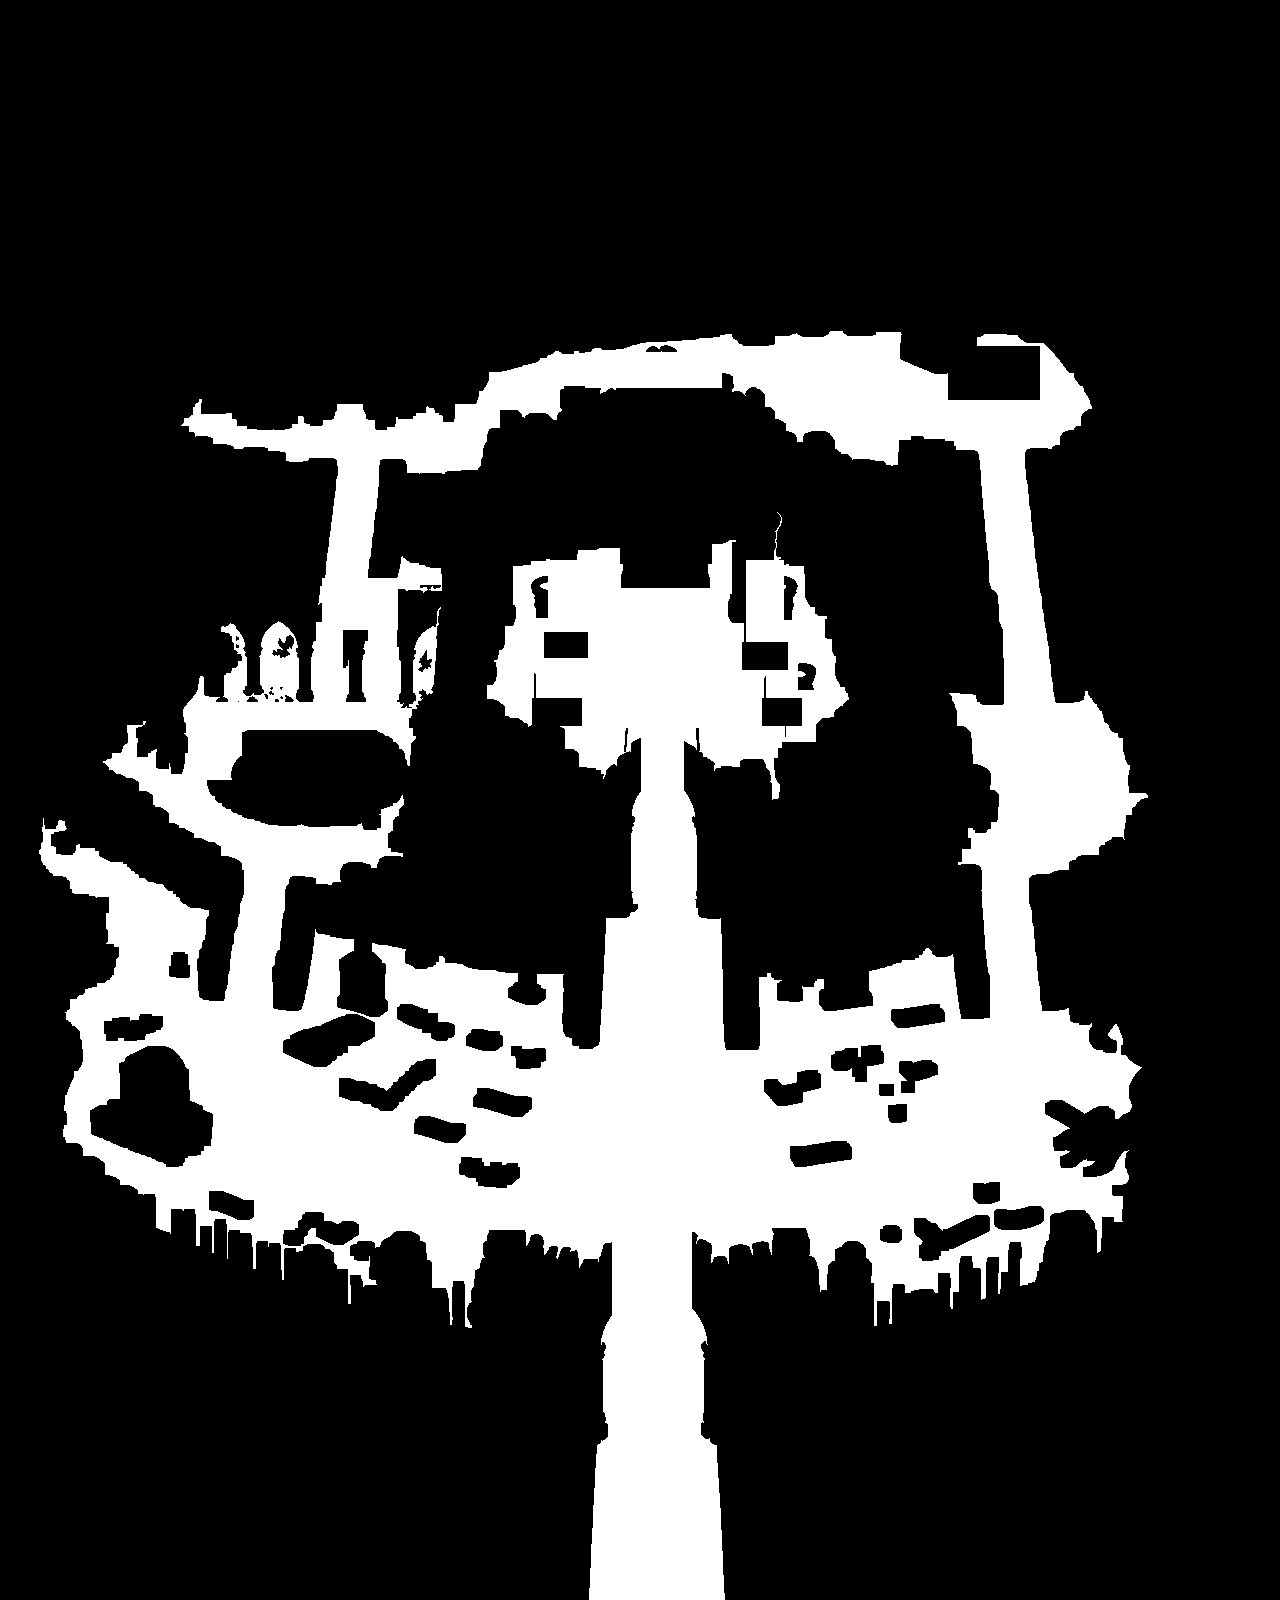
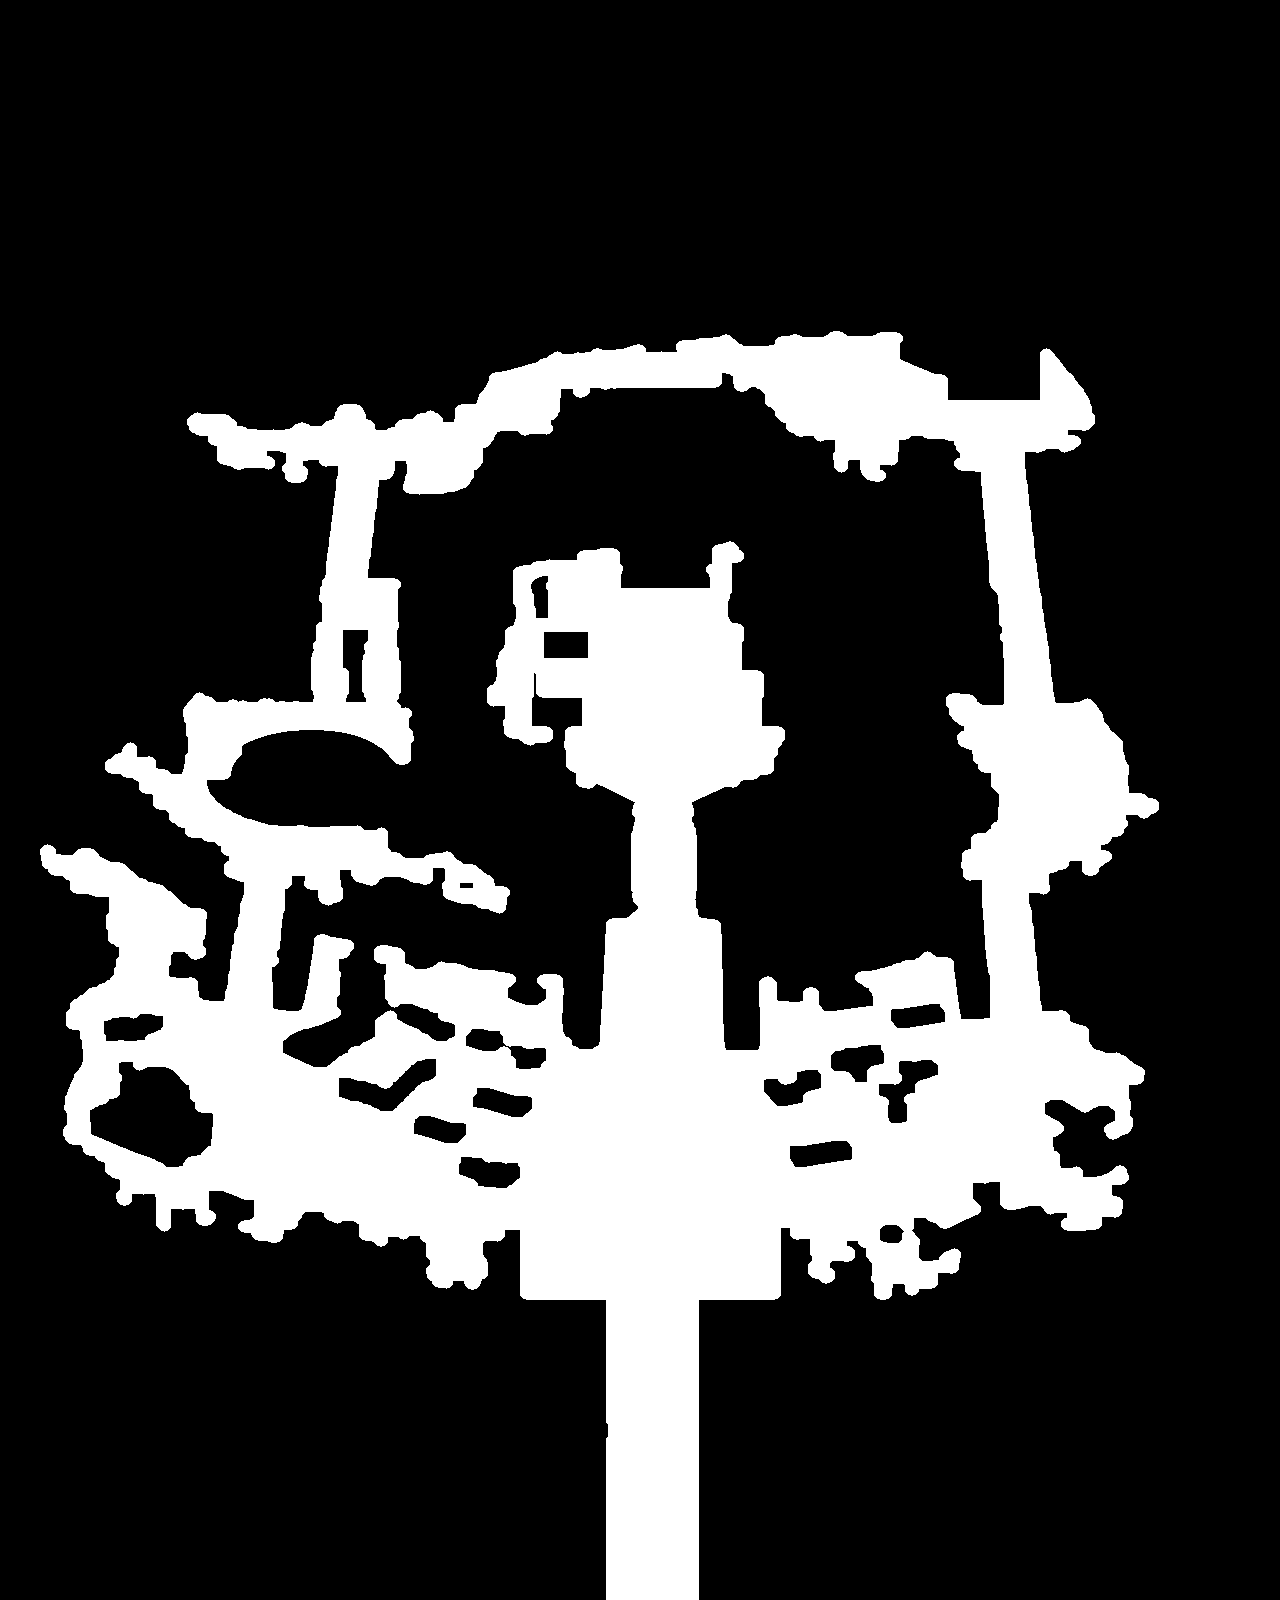
Twilight demo: walk behind walls, gate and door tops; faint silhouette when hidden; corner assist
Claude-Session: https://claude.ai/code/session_014gqNrMDU7toFrfwQ4Jw66a

diff --git a/chronicle2/twilight/site/game.js b/chronicle2/twilight/site/game.js
@@ -530,6 +530,15 @@ function update(dt) {
         const fa = free(hero.x + ax, hero.y + ay), fb = free(hero.x + bx, hero.y + by);
         if (fa !== fb) { if (fa) { hero.x += ax; hero.y += ay; } else { hero.x += bx; hero.y += by; } moved = true; break; }
       }
+      if (!moved) {                                           // corner assist: an opening a few dots to one side pulls the hero in
+        const px = -uy, py = ux;
+        for (const k of [4, 8, 12, 16, 20]) {
+          const fa = free(hero.x + px * k + ux * 3, hero.y + py * k + uy * 3) && free(hero.x + px * st, hero.y + py * st);
+          const fb = free(hero.x - px * k + ux * 3, hero.y - py * k + uy * 3) && free(hero.x - px * st, hero.y - py * st);
+          if (fa !== fb) { const s = fa ? 1 : -1; hero.x += px * st * s; hero.y += py * st * s; moved = true; break; }
+          if (fa && fb) break;
+        }
+      }
       if (!moved) break;
     }
     const mvx = hero.x - ox, mvy = hero.y - oy;
@@ -653,6 +662,7 @@ function hides(x, y, feetY) {
 }
 // One sprite frame with its contact shadow. With a height map, every pixel that lies behind taller scenery is removed,
 // so the hero passes behind columns, walls, arches and trees with no hand-made cut-outs.
+const hidIdx = new Uint32Array(96 * 128 * 2);
 function drawActor(img, sxp, syp, fw, fh, x, y, foot, sh, shR, ox, oy) {
   const dx = x - foot[0], dy = y - foot[1];
   if (!hData) {
@@ -674,6 +684,7 @@ function drawActor(img, sxp, syp, fw, fh, x, y, foot, sh, shR, ox, oy) {
   shadow(scx, foot[0], foot[1], sh, shR);
   scx.drawImage(img, sxp, syp, fw, fh, 0, 0, fw, fh);
   const im = scx.getImageData(0, 0, fw, fh), d = im.data, lim = y + M.heightBias;
+  let nHid = 0, nVis = 0;
   for (let j = 0; j < fh; j++) {
     const my = dy + j; if (my < 0) continue;
     const hj = Math.floor(my / hK); if (hj >= hH) break;
@@ -682,9 +693,13 @@ function drawActor(img, sxp, syp, fw, fh, x, y, foot, sh, shR, ox, oy) {
       const mxp = dx + i; if (mxp < 0) continue;
       const hi = Math.floor(mxp / hK); if (hi >= hW) break;
       const h = hData[hj * hW + hi];
-      if (h > 2 && my + h * hK > lim) d[o] = 0;
+      if (h > 2 && my + h * hK > lim) { if (d[o] === 255) { if (nHid < hidIdx.length) hidIdx[nHid++] = o; } else d[o] = 0; }
+      else if (d[o] === 255) nVis++;
     }
   }
+  // mostly hidden behind scenery: the hidden part stays as a faint pale shape, so the player never loses the hero
+  const frac = nHid / Math.max(1, nHid + nVis), sa = Math.round(255 * .36 * clamp((frac - .3) / .3, 0, 1));
+  for (let q = 0; q < nHid; q++) { const o = hidIdx[q]; if (sa) { d[o - 3] = 196; d[o - 2] = 204; d[o - 1] = 255; d[o] = sa; } else d[o] = 0; }
   scx.putImageData(im, 0, 0);
   wx.drawImage(scr, 0, 0, fw, fh, dx - ox, dy - oy, fw, fh);
 }

diff --git a/chronicle2/twilight/build/build2.py b/chronicle2/twilight/build/build2.py
@@ -78,6 +78,28 @@ for i in range(1, n):
     sub[m] = np.maximum(sub[m], bb[m])
     nprops += 1
 print('props with walk-behind:', nprops)
+# everything else that stands up (walls, parapets, ruins, posts): the hero can tuck in behind its top edge, legs hidden.
+# In each column, a vertical run of standing pixels with ground just above it gives up its top TUCK px (never its foot).
+TUCK = 20
+propm = foot | behind
+big = raised2 & ~propm
+okabove = ~cv2.dilate(sky.astype(np.uint8), np.ones((9, 9), np.uint8)).astype(bool) & ~raised2
+tuck = np.zeros((H, W), bool)
+for x in range(W):
+    col = big[:, x]
+    if not col.any(): continue
+    d_ = np.diff(np.concatenate([[0], col.view(np.int8), [0]]))
+    tops = np.where(d_ == 1)[0]; bots = np.where(d_ == -1)[0] - 1
+    for t, b in zip(tops, bots):
+        n_ = b - t + 1
+        base[t:b + 1, x] = np.maximum(base[t:b + 1, x], b)
+        if n_ < 14 or t < 2 or not okabove[t - 1, x]: continue
+        ft = int(np.clip(round(n_ * 0.3), 6, 14))
+        e = min(t + TUCK, b - ft)
+        if e > t: tuck[t:e + 1, x] = True
+tuck = cv2.morphologyEx(tuck.astype(np.uint8), cv2.MORPH_OPEN, np.ones((1, 5), np.uint8)) > 0   # no one-column slivers
+behind |= tuck
+print('tuck-behind px:', int(tuck.sum()))
 yy = np.arange(H)[:, None].repeat(W, 1)
 height = np.where(base > 0, np.clip(base - yy, 0, 65535), 0)
 solid = (raised2 & ~behind)                                                # walls, cliffs, trees, prop feet
@@ -109,7 +131,15 @@ FORCE_OFF = [
     (544, 632, 588, 658), (532, 698, 582, 726), (742, 642, 788, 670), (762, 698, 802, 726), (782, 742, 820, 770),
 ]
 for r in FORCE_ON: rect(walk, *r, True)
+FUNNELS = [  # ground hidden behind a wall that has an opening: the full width behind the wall top, narrowing to the doorway
+    [(520, 1222), (780, 1222), (780, 1296), (694, 1360), (694, 1445), (610, 1445), (610, 1360), (520, 1296)],   # south gate
+    [(566, 722), (764, 722), (764, 768), (690, 802), (690, 905), (636, 905), (636, 802), (566, 768)],           # nave doorway
+]
+fm = np.zeros((H, W), np.uint8)
+for poly in FUNNELS: cv2.fillPoly(fm, [np.array(poly, np.int32)], 1)
+walk |= fm > 0
 for r in FORCE_OFF: rect(walk, *r, False)
+walk[1300:, :606] = False; walk[1300:, 699:] = False                       # south of the wall line only the gate passage and the entry stairs
 pm = np.zeros((H, W), np.uint8); cv2.ellipse(pm, (307, 774), (76, 37), 0, 0, 360, 1, -1); walk &= pm == 0   # the pond and its rim
 SPAWN = (650, 1572)
 n, lab, st, ce = cv2.connectedComponentsWithStats(walk.astype(np.uint8), connectivity=8)
@@ -120,6 +150,12 @@ Image.fromarray((walk * 255).astype(np.uint8)).save(f'{OUT}/walk.png')
 hp = np.zeros((H, W, 3), np.uint8); hp[..., 0] = height & 255; hp[..., 1] = height >> 8
 Image.fromarray(hp).save(f'{OUT}/height.png')
 np.save('map/walk.npy', walk); np.save('map/height.npy', height)
+# keep only what the hero's body can really reach: erode by the body radius, take the spawn's region, grow it back
+_el = cv2.getStructuringElement(cv2.MORPH_ELLIPSE, (13, 13))
+_er = cv2.erode(walk.astype(np.uint8), _el)
+_n, _lab = cv2.connectedComponents(_er, connectivity=8)
+walk &= cv2.dilate((_lab == _lab[SPAWN[1], SPAWN[0]]).astype(np.uint8), _el) > 0
+Image.fromarray((walk * 255).astype(np.uint8)).save(f'{OUT}/walk.png'); np.save('map/walk.npy', walk)
 print('walkable px', int(walk.sum()))
 er = cv2.erode(walk.astype(np.uint8), cv2.getStructuringElement(cv2.MORPH_ELLIPSE, (13, 13)))
 n_, lab_, st_, _c = cv2.connectedComponentsWithStats(er, connectivity=8)
